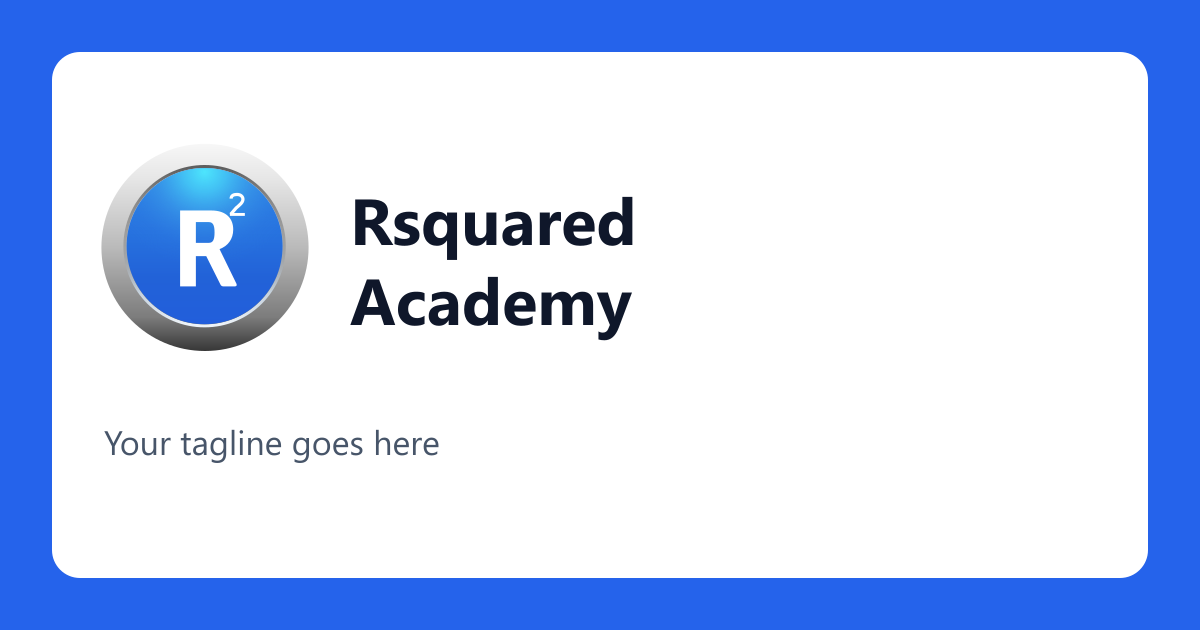
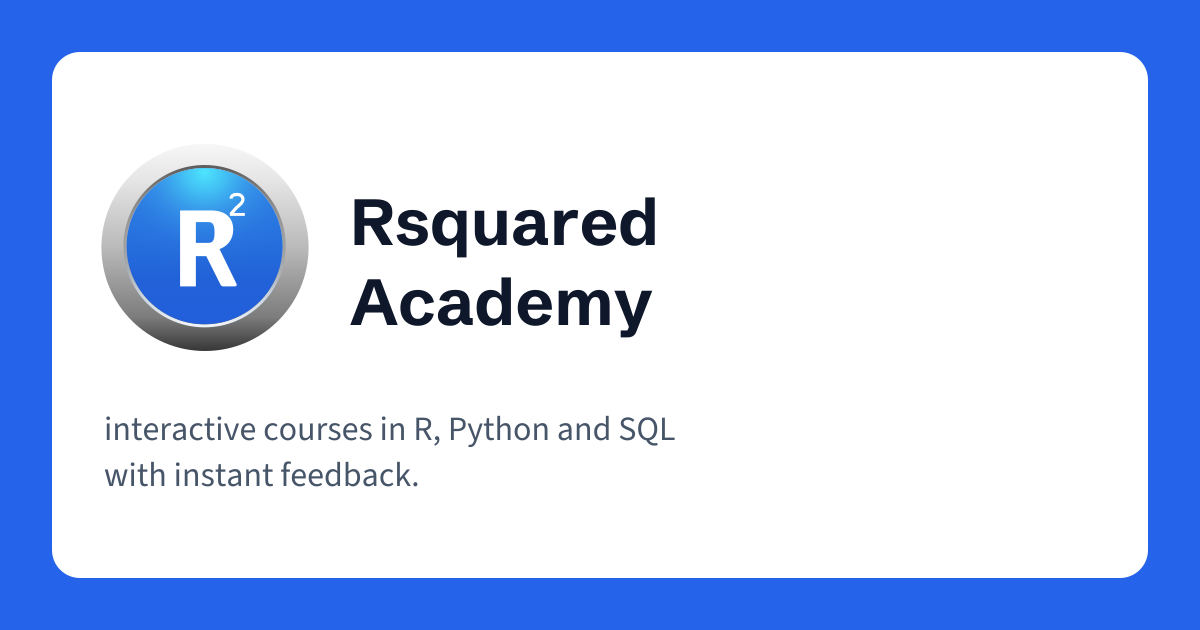
fix(brand): outlined wordmark in Schibsted Grotesk; real OG tagline

Changed region(s): [[0.0925, 0.6635, 0.555, 0.7841], [0.2775, 0.3016, 0.555, 0.4222], [0.3083, 0.4222, 0.555, 0.5429]]

diff --git a/brand/README.md b/brand/README.md
@@ -12,7 +12,9 @@ The approved master is `_source/rsquared-logo.svg`; use the optimised `logo/rsqu
 | pkgdown navbar | Use `logo/rsquared-lockup.svg` on a light navbar; check it at the navbar's rendered size. |
 | Quarto book | Use the lockup in a light navbar; include `tokens/brand.scss` in the theme and publish the favicon files. |
 
-The lockup and OG SVGs use `"Schibsted Grotesk", "Segoe UI", system-ui, sans-serif` for headings; the OG tagline uses `"Source Sans 3", "Segoe UI", system-ui, sans-serif`. Install or load these fonts before rendering for the intended appearance; the PNGs may use available fallbacks. Replace the example tagline before publishing. The SVG wordmark is live text, so rendering varies with installed fonts.
+The lockup and OG wordmarks are outlined in Schibsted Grotesk at weight 700. The OG template tagline remains editable live text in `"Source Sans 3", "Segoe UI", system-ui, sans-serif`; load Source Sans 3 before exporting. The default PNG uses the website’s tagline.
+
+Fonts: Schibsted Grotesk + Source Sans 3 (SIL OFL), load from Google Fonts or self-host.
 
 Keep clear space around the logo of at least one quarter of its displayed width on every side. Use the standalone mark at 32 px or larger in normal layouts (the 16 px favicon is an exception); use the lockup at 160 px wide or larger and verify readability. Place it on a plain background with enough contrast, and preserve the supplied transparent margins.
 
